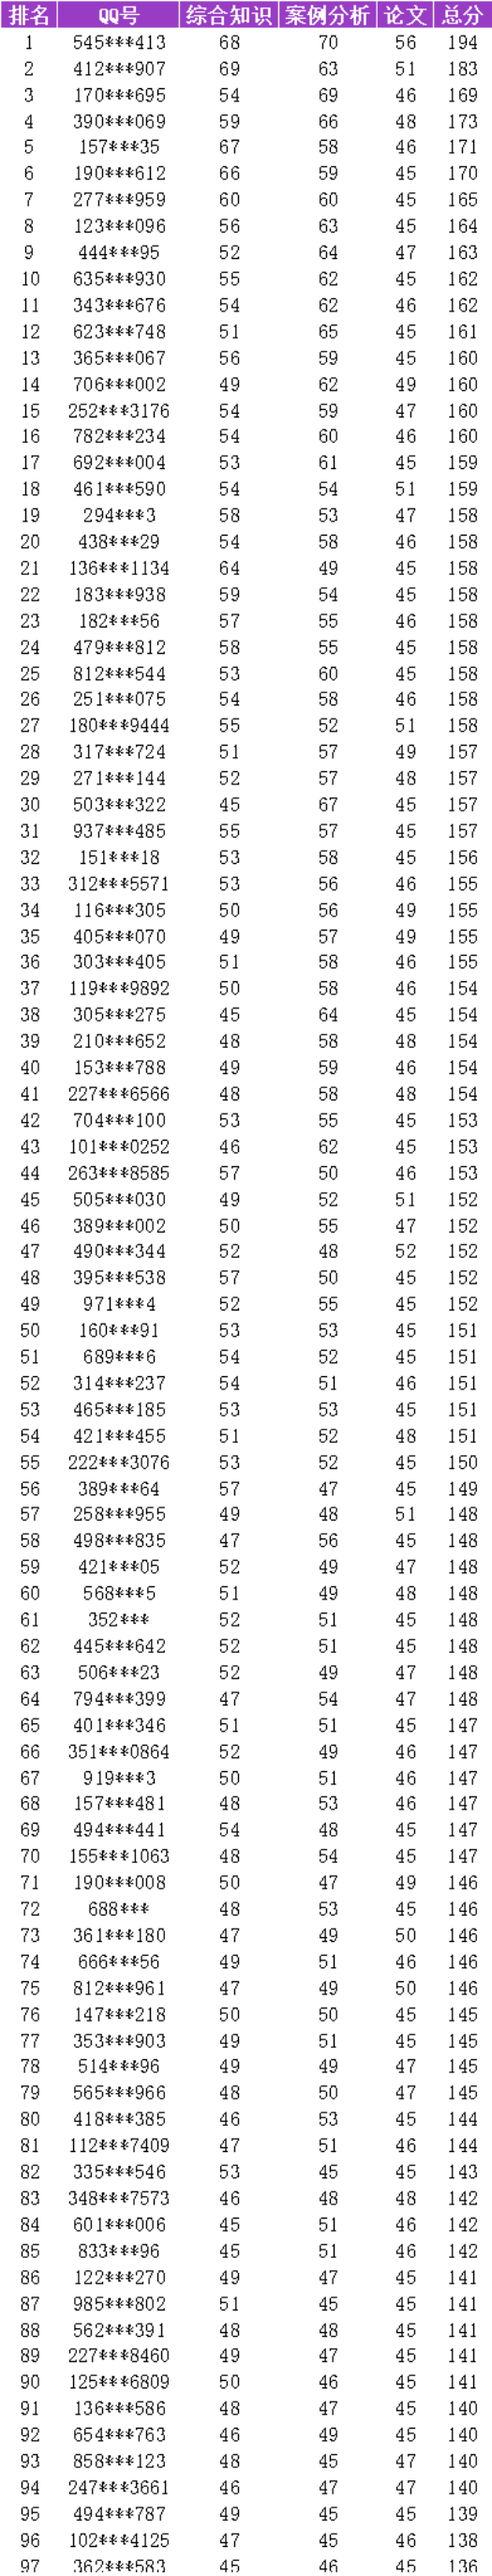
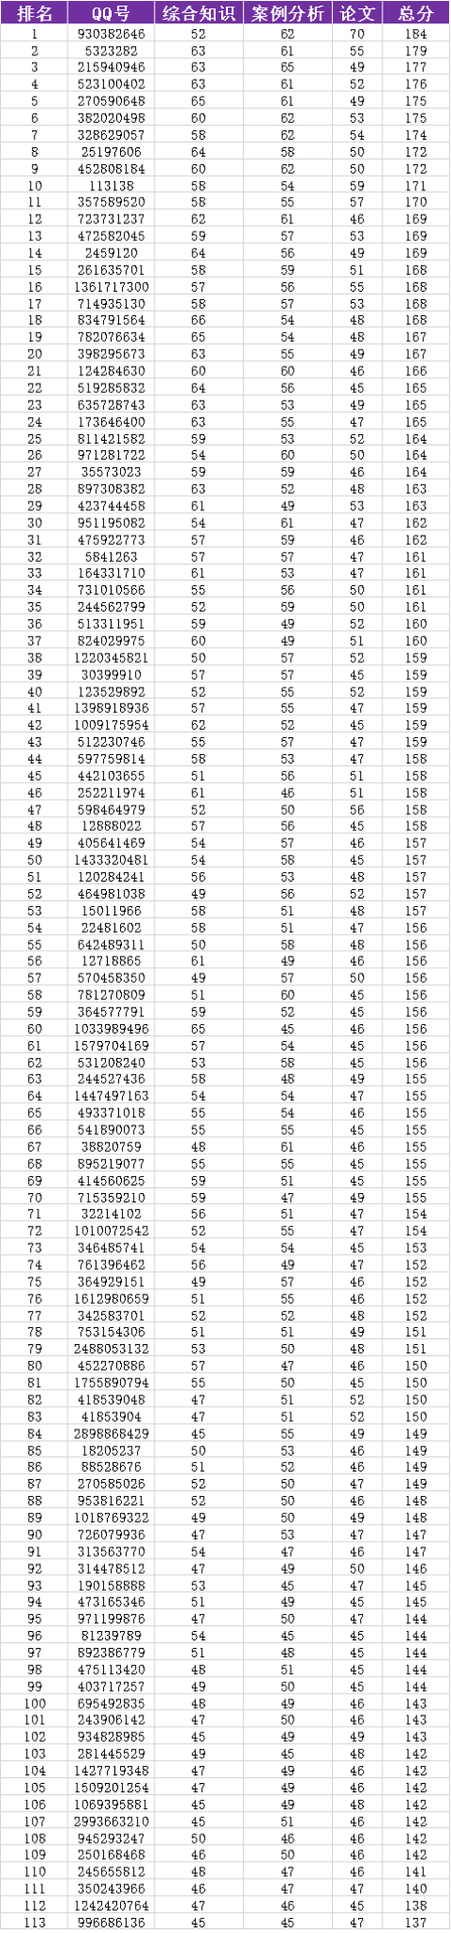
2020通过人数

diff --git a/群通过率/2020下半年/2020.md b/群通过率/2020下半年/2020.md
@@ -1,14 +1,14 @@
-# :clap:2019下半年成绩录入及通过率
+# :clap:2020下半年成绩录入及通过率
 
-2019年下半年考试于11月09日进行，成绩于12月16日可查询；随后群内发起了本群成绩录入活动，以便最后总结备考经验以及奖励先进个人活动的进行。截止12月19日，本群录入成绩的通过人数列表以及通过率如下（**录入样本存在客观性问题，仅供参考**）： 
+2020年下半年考试于11月07日进行，成绩于12月18日可查询；随后群内发起了本群成绩录入活动，以便最后总结备考经验以及奖励先进个人活动的进行。截止12月22日，本群录入成绩的通过人数列表以及通过率如下（**录入样本存在客观性问题，仅供参考**）： 
 
 - **总览**
-截止目前，本群成绩录入143人，通过104人。
+截止目前，本群成绩录入150人，通过113人。
 
-- **通过率**
+- **通过列表**
 <div align="center">
  <kbd>
- <img src="https://raw.githubusercontent.com/xxlllq/2018_system_architect/master/群通过率/2019下半年/通过率.png" width=400 />
+ <img src="https://raw.githubusercontent.com/xxlllq/system_architect/master/群通过率/2020下半年/及格人数.png" width=400 />
  </kbd> 
  </div>
 

diff --git a/README.md b/README.md
@@ -1,11 +1,8 @@
-# :100:系统架构设计师复习资料【更多教材+视频+论文等资料可加入QQ交流②群：1087700294，二维码在本文最后】
+# :100:系统架构设计师复习资料【更多教材+视频+论文等资料可加入QQ交流②群：1087700294，二维码在本文最后】
 
-- [**2019下半年本群通过率（仅供参考）**](https://github.com/xxlllq/system_architect/blob/master/%E7%BE%A4%E9%80%9A%E8%BF%87%E7%8E%87/2019%E4%B8%8B%E5%8D%8A%E5%B9%B4/2019.md)
-<div align="center">
- <kbd>
- <img src="https://raw.githubusercontent.com/xxlllq/2018_system_architect/master/群通过率/2019下半年/通过率.png" width=400 />
- </kbd> 
- </div>
+- [**2020下半年①、②群群通过人数（仅供参考）**](https://github.com/xxlllq/system_architect/blob/master/%E7%BE%A4%E9%80%9A%E8%BF%87%E7%8E%87/2019%E4%B8%8B%E5%8D%8A%E5%B9%B4/2020.md)
+
+- [**2019下半年本群通过率（仅供参考）**](https://github.com/xxlllq/system_architect/blob/master/%E7%BE%A4%E9%80%9A%E8%BF%87%E7%8E%87/2019%E4%B8%8B%E5%8D%8A%E5%B9%B4/2019.md) 
  
 
 - **本库说明**
